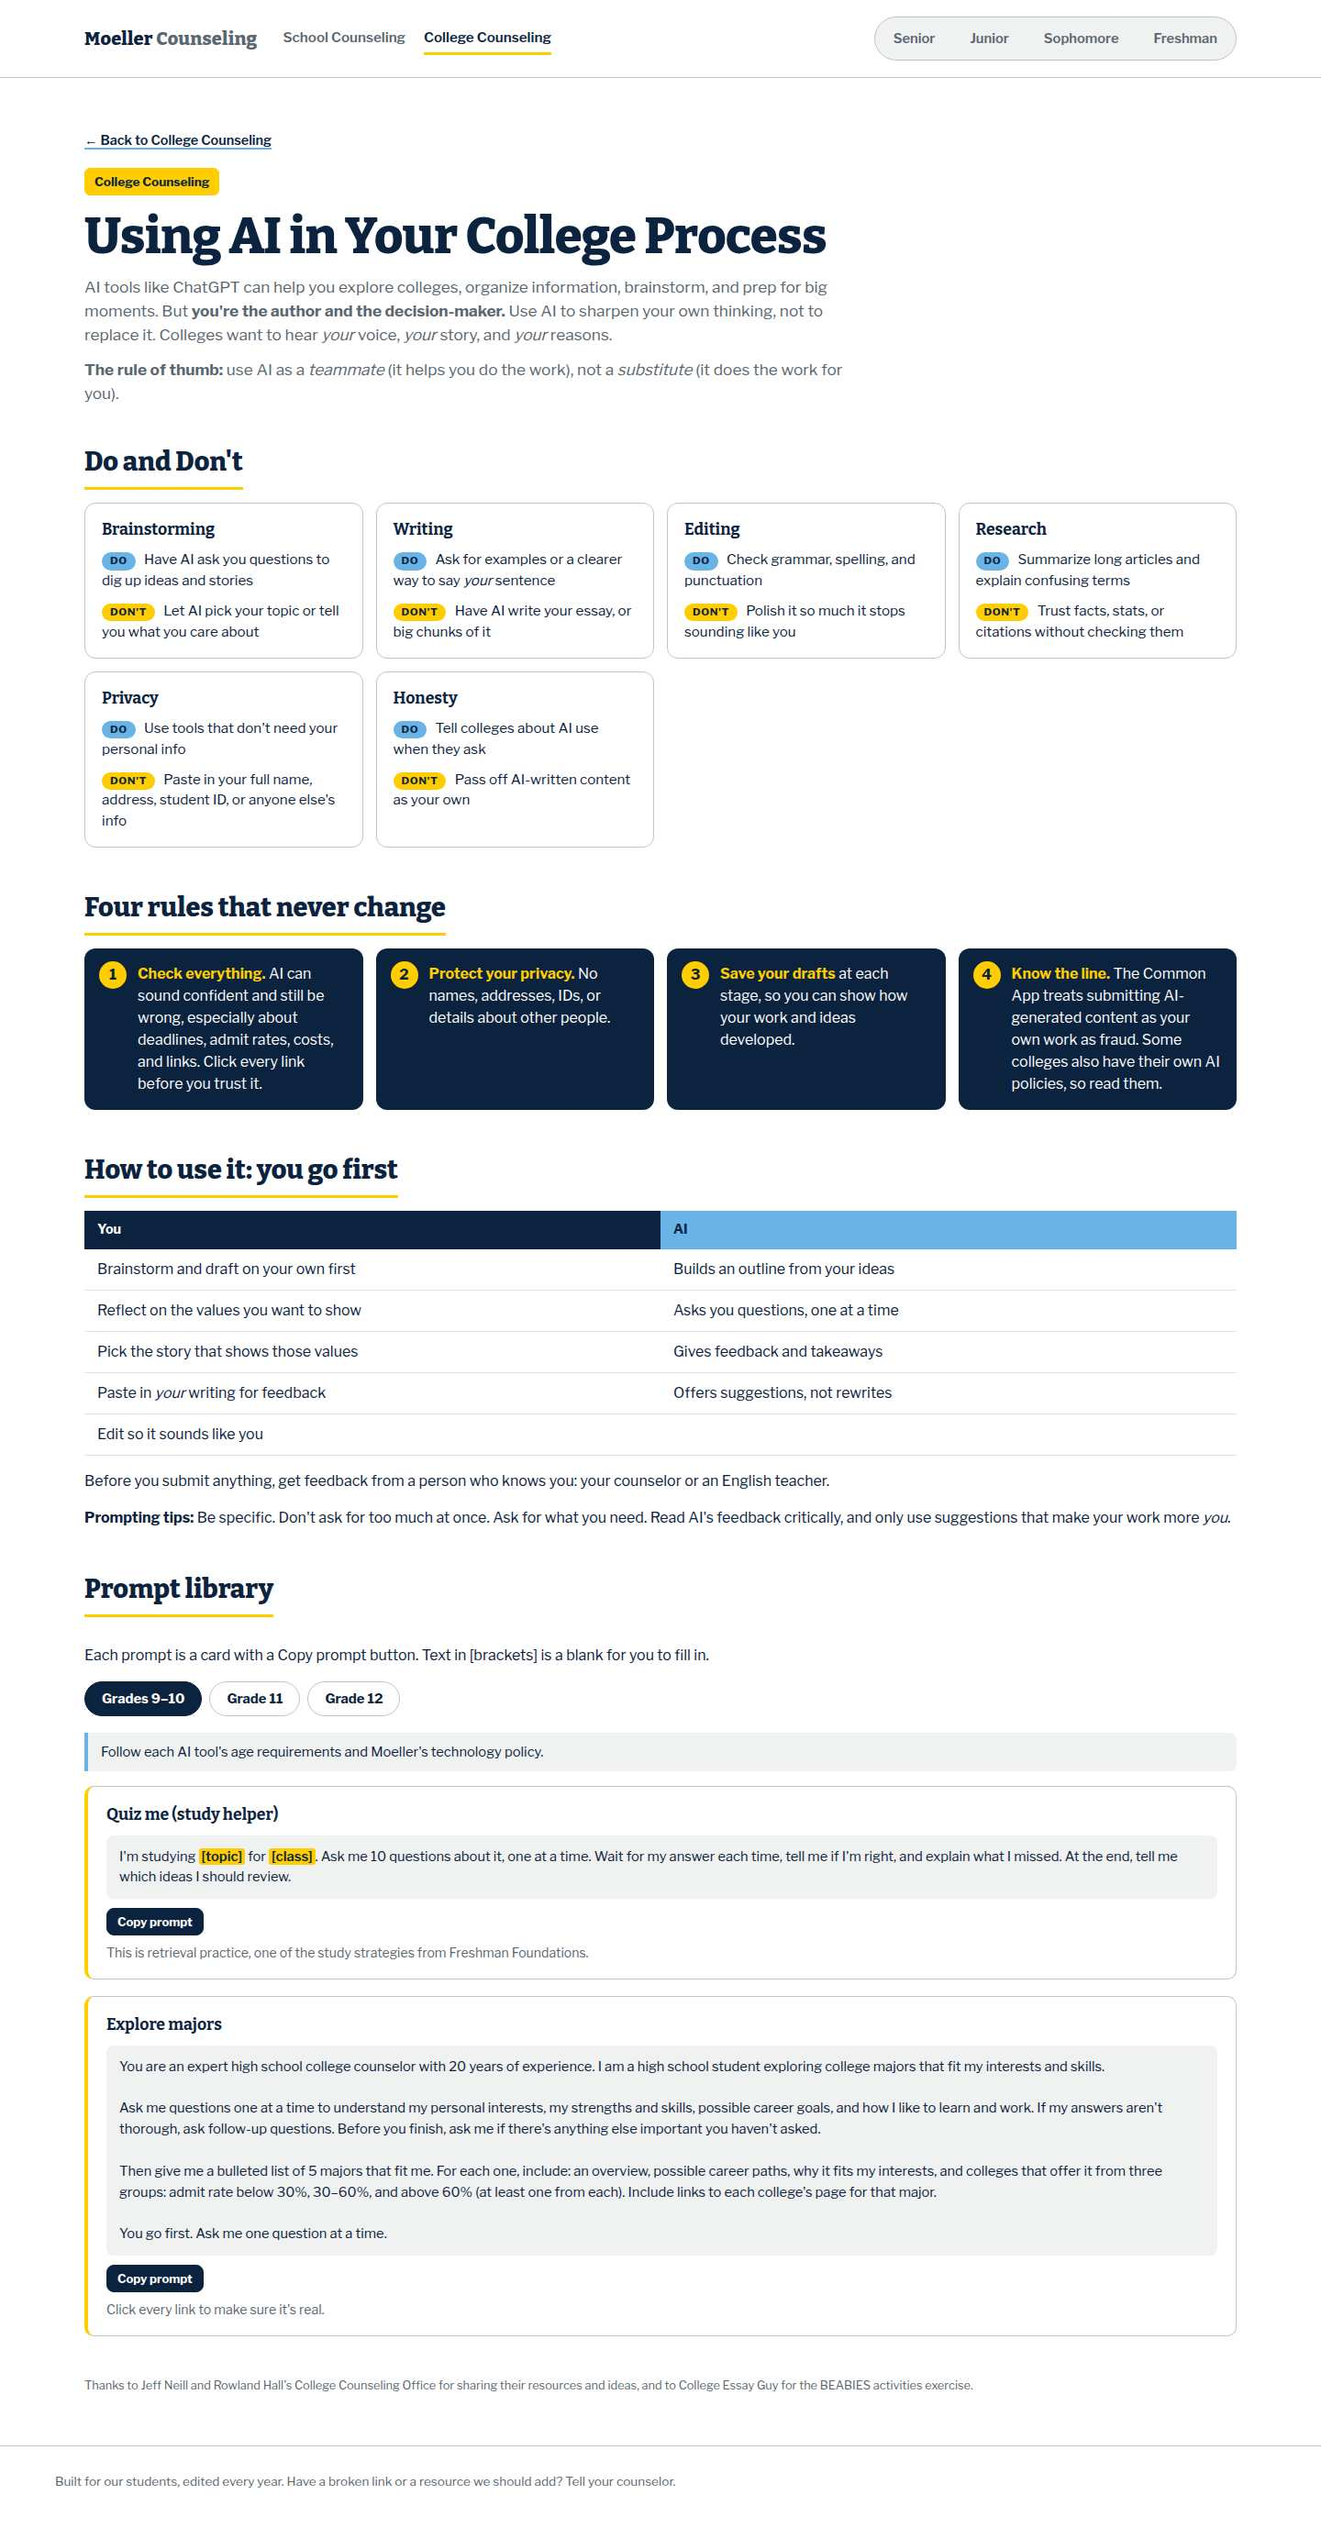
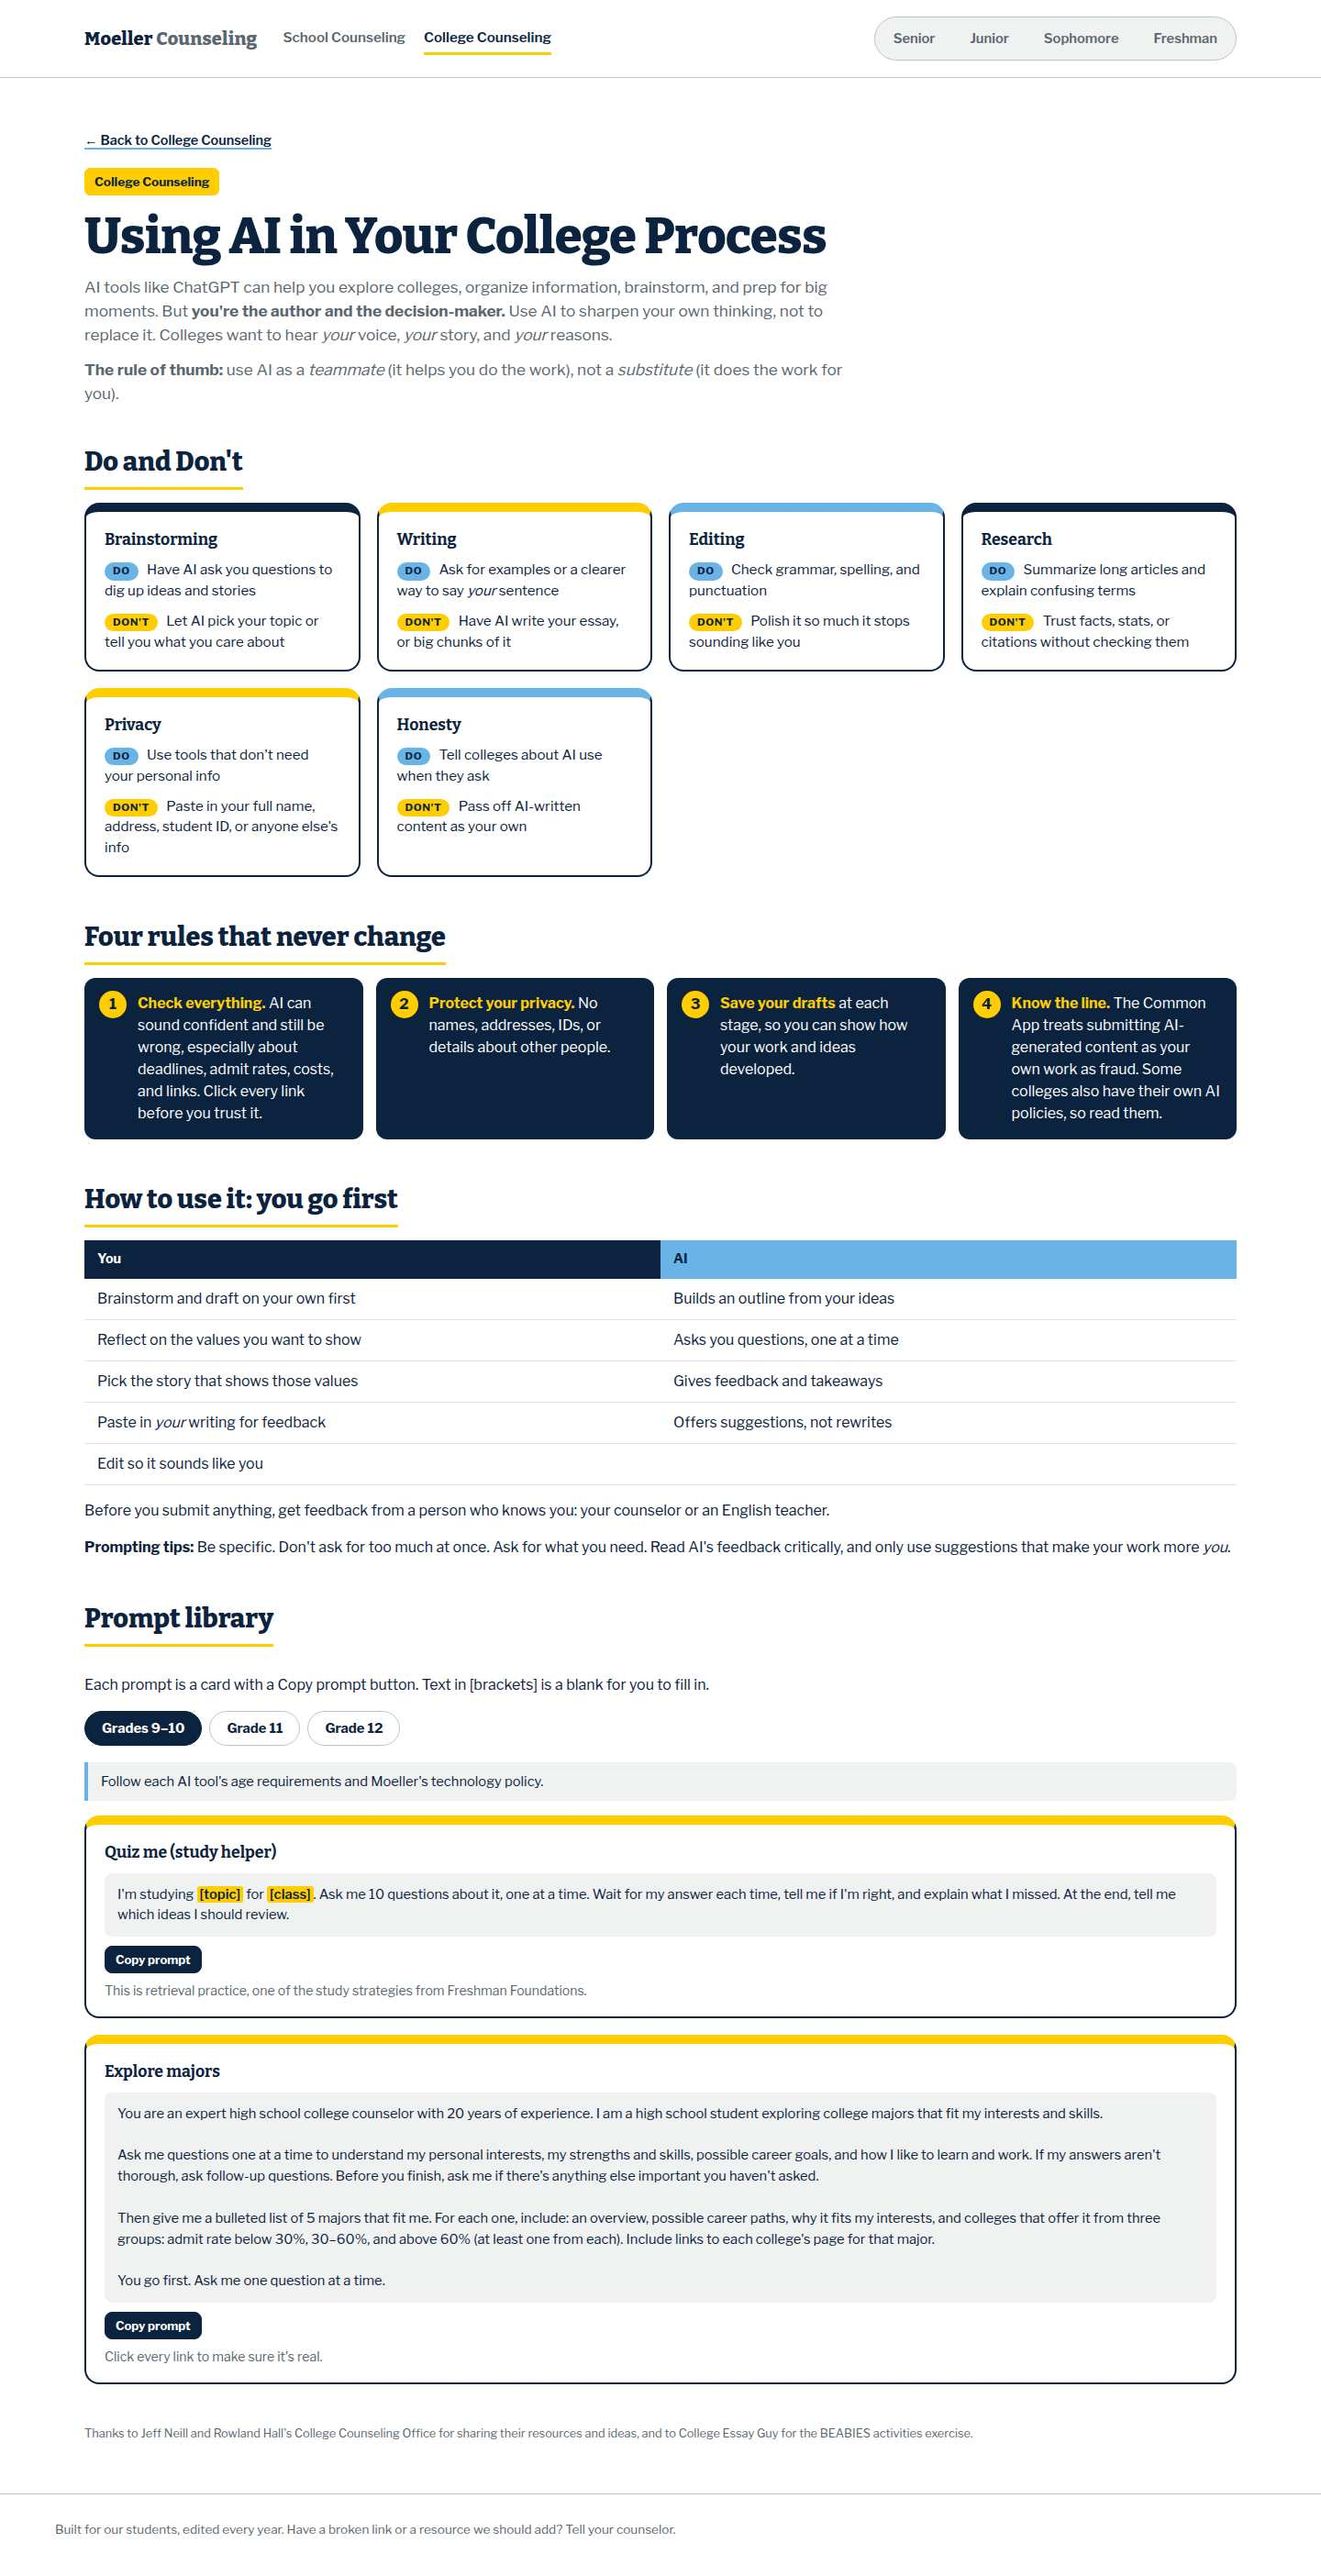
Design refresh: AI page cards use the shared navy outline and colored top bar; refresh its preview
Claude-Session: https://claude.ai/code/session_011MsU551F9RdGj9DqwToWpG

diff --git a/assets/css/ai.css b/assets/css/ai.css
@@ -70,3 +70,13 @@
 }
 @media (prefers-reduced-motion: reduce){.ai *{transition:none !important; animation:none !important; scroll-behavior:auto !important;}}
 @media print{#site-header, footer, .hero .back-link, .ai-tabs, .ai-copyrow{display:none !important;} .ai-panel[hidden]{display:block !important;}}
+
+/* design refresh: same navy outline and colored top bar as the shared cards */
+.ai-dd, .ai-card{border:2px solid var(--navy); border-top-width:10px; border-radius:16px;}
+.ai-dd-grid > .ai-dd:nth-child(3n+1){border-top-color:var(--navy);}
+.ai-dd-grid > .ai-dd:nth-child(3n+2){border-top-color:var(--gold);}
+.ai-dd-grid > .ai-dd:nth-child(3n+3){border-top-color:var(--sky);}
+.ai-card{border-left-width:2px; border-top-color:var(--gold);}
+.ai-dd{padding:18px 20px;}
+.ai-dd-grid{gap:18px;}
+.ai-dd h3, .ai-card h3{font-weight:800;}

diff --git a/assets/css/tools.css b/assets/css/tools.css
@@ -405,3 +405,6 @@
   .at-card, .at-row{break-inside:avoid;}
   .tool-input, .tool-select, .tool-textarea{border:none; padding:0;}
 }
+
+/* design refresh: stat tiles and note boxes on tool pages use the shared navy outline */
+.tool-wrap .tool-note{max-width:var(--read-max);}
